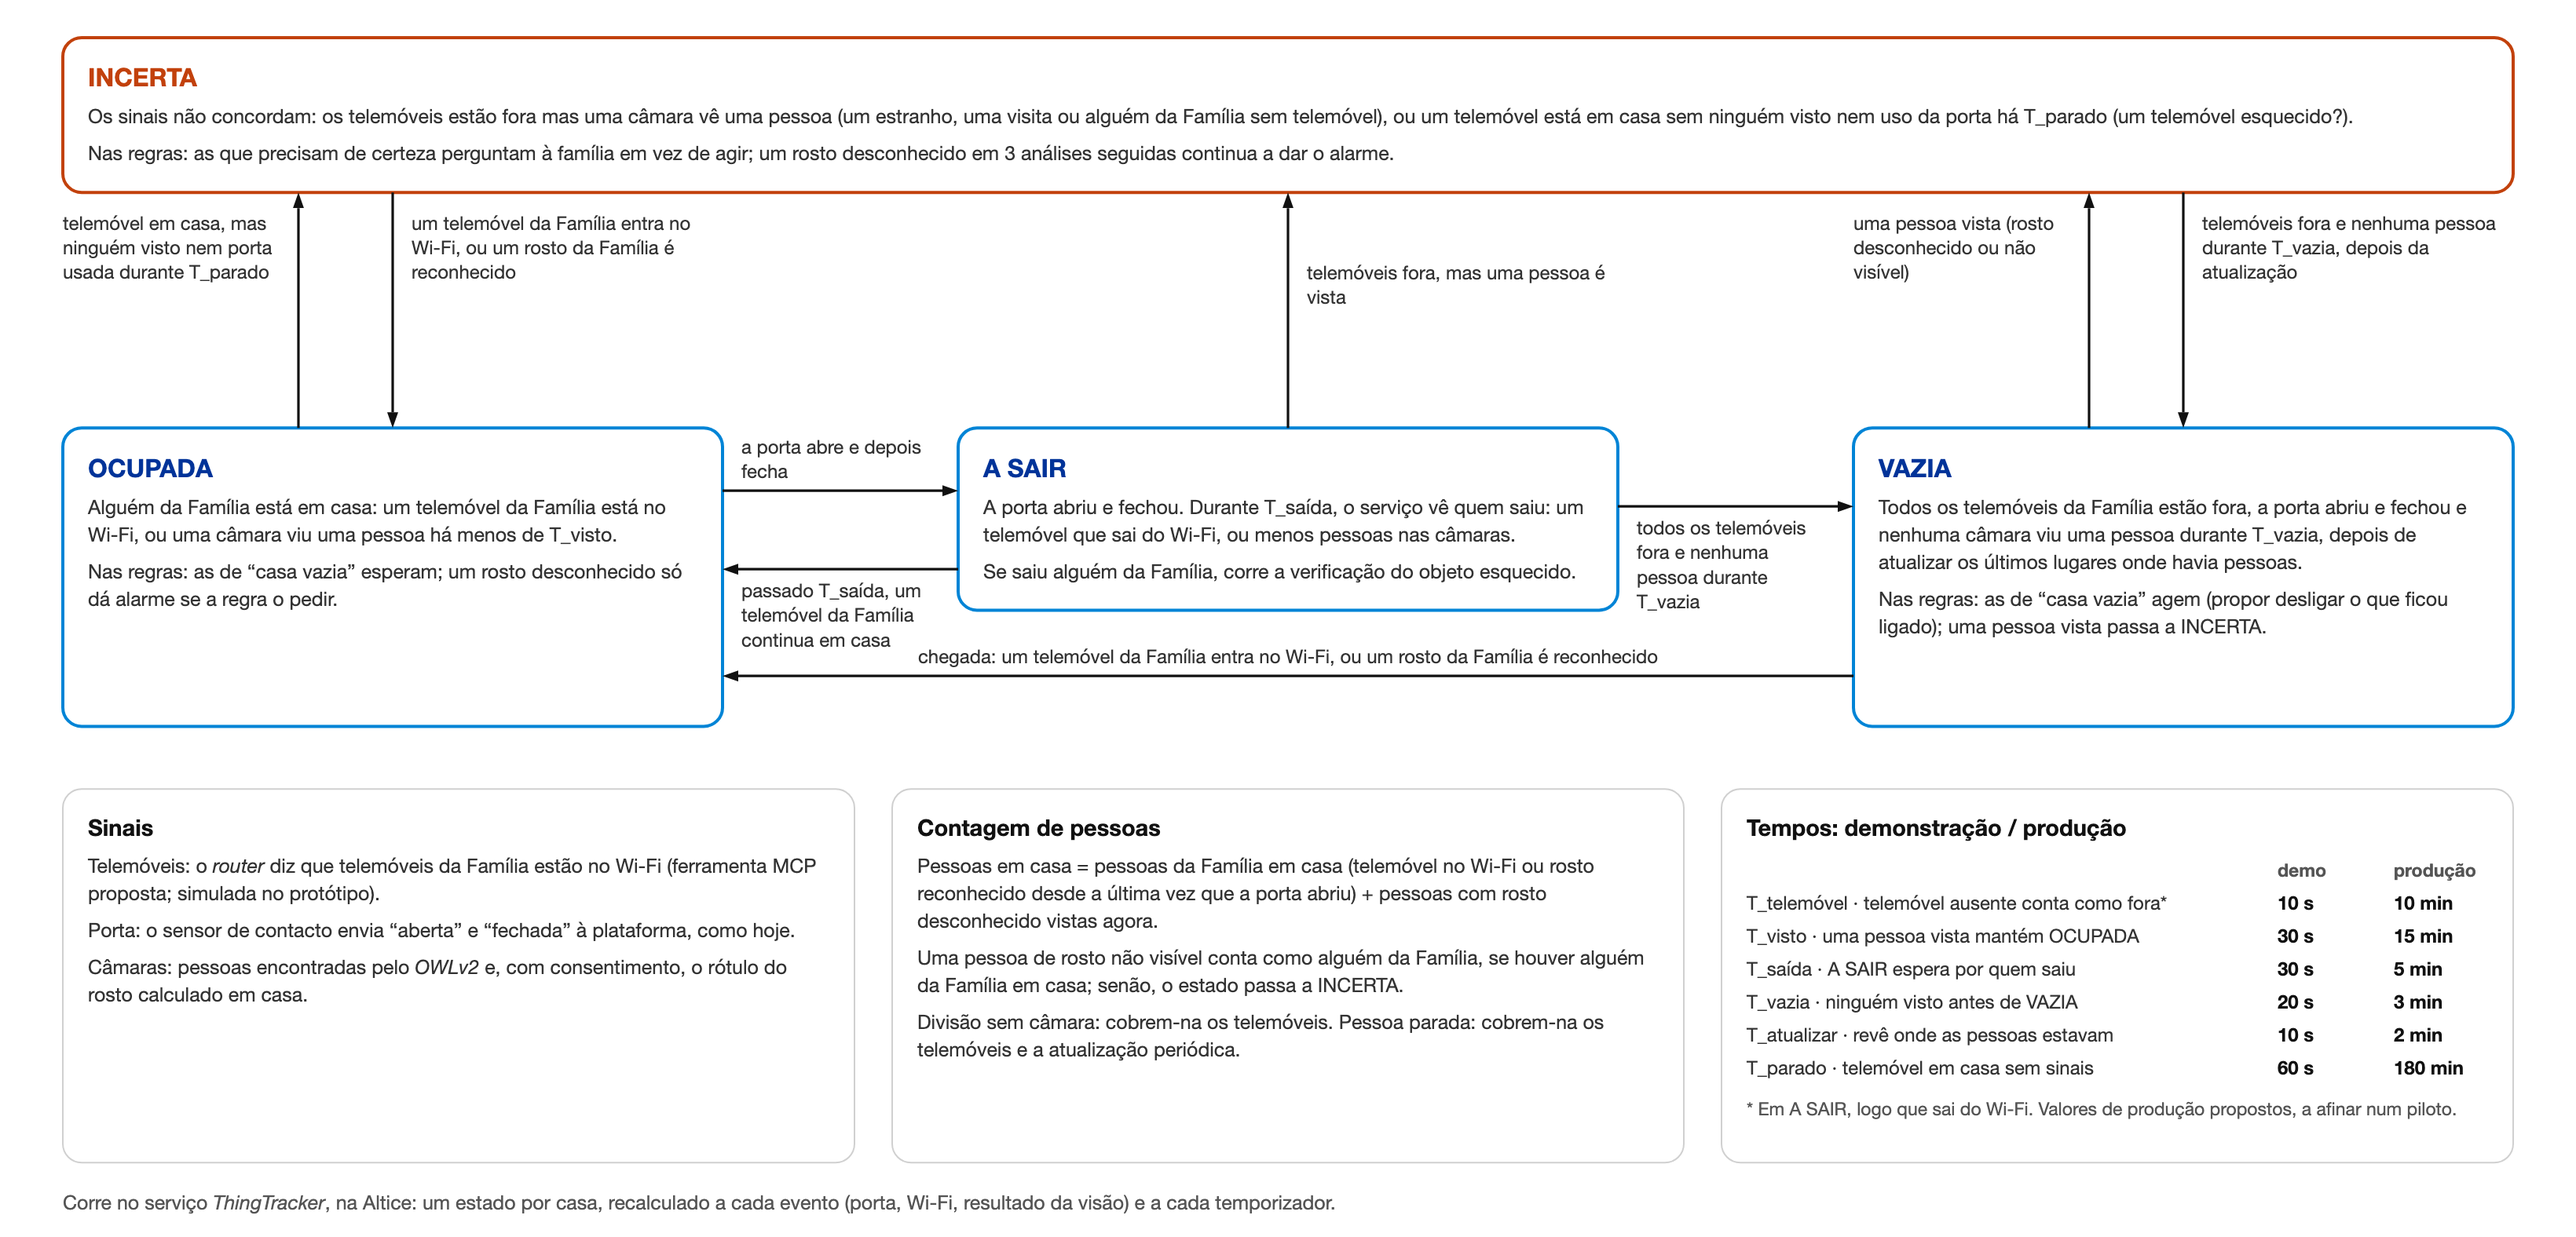
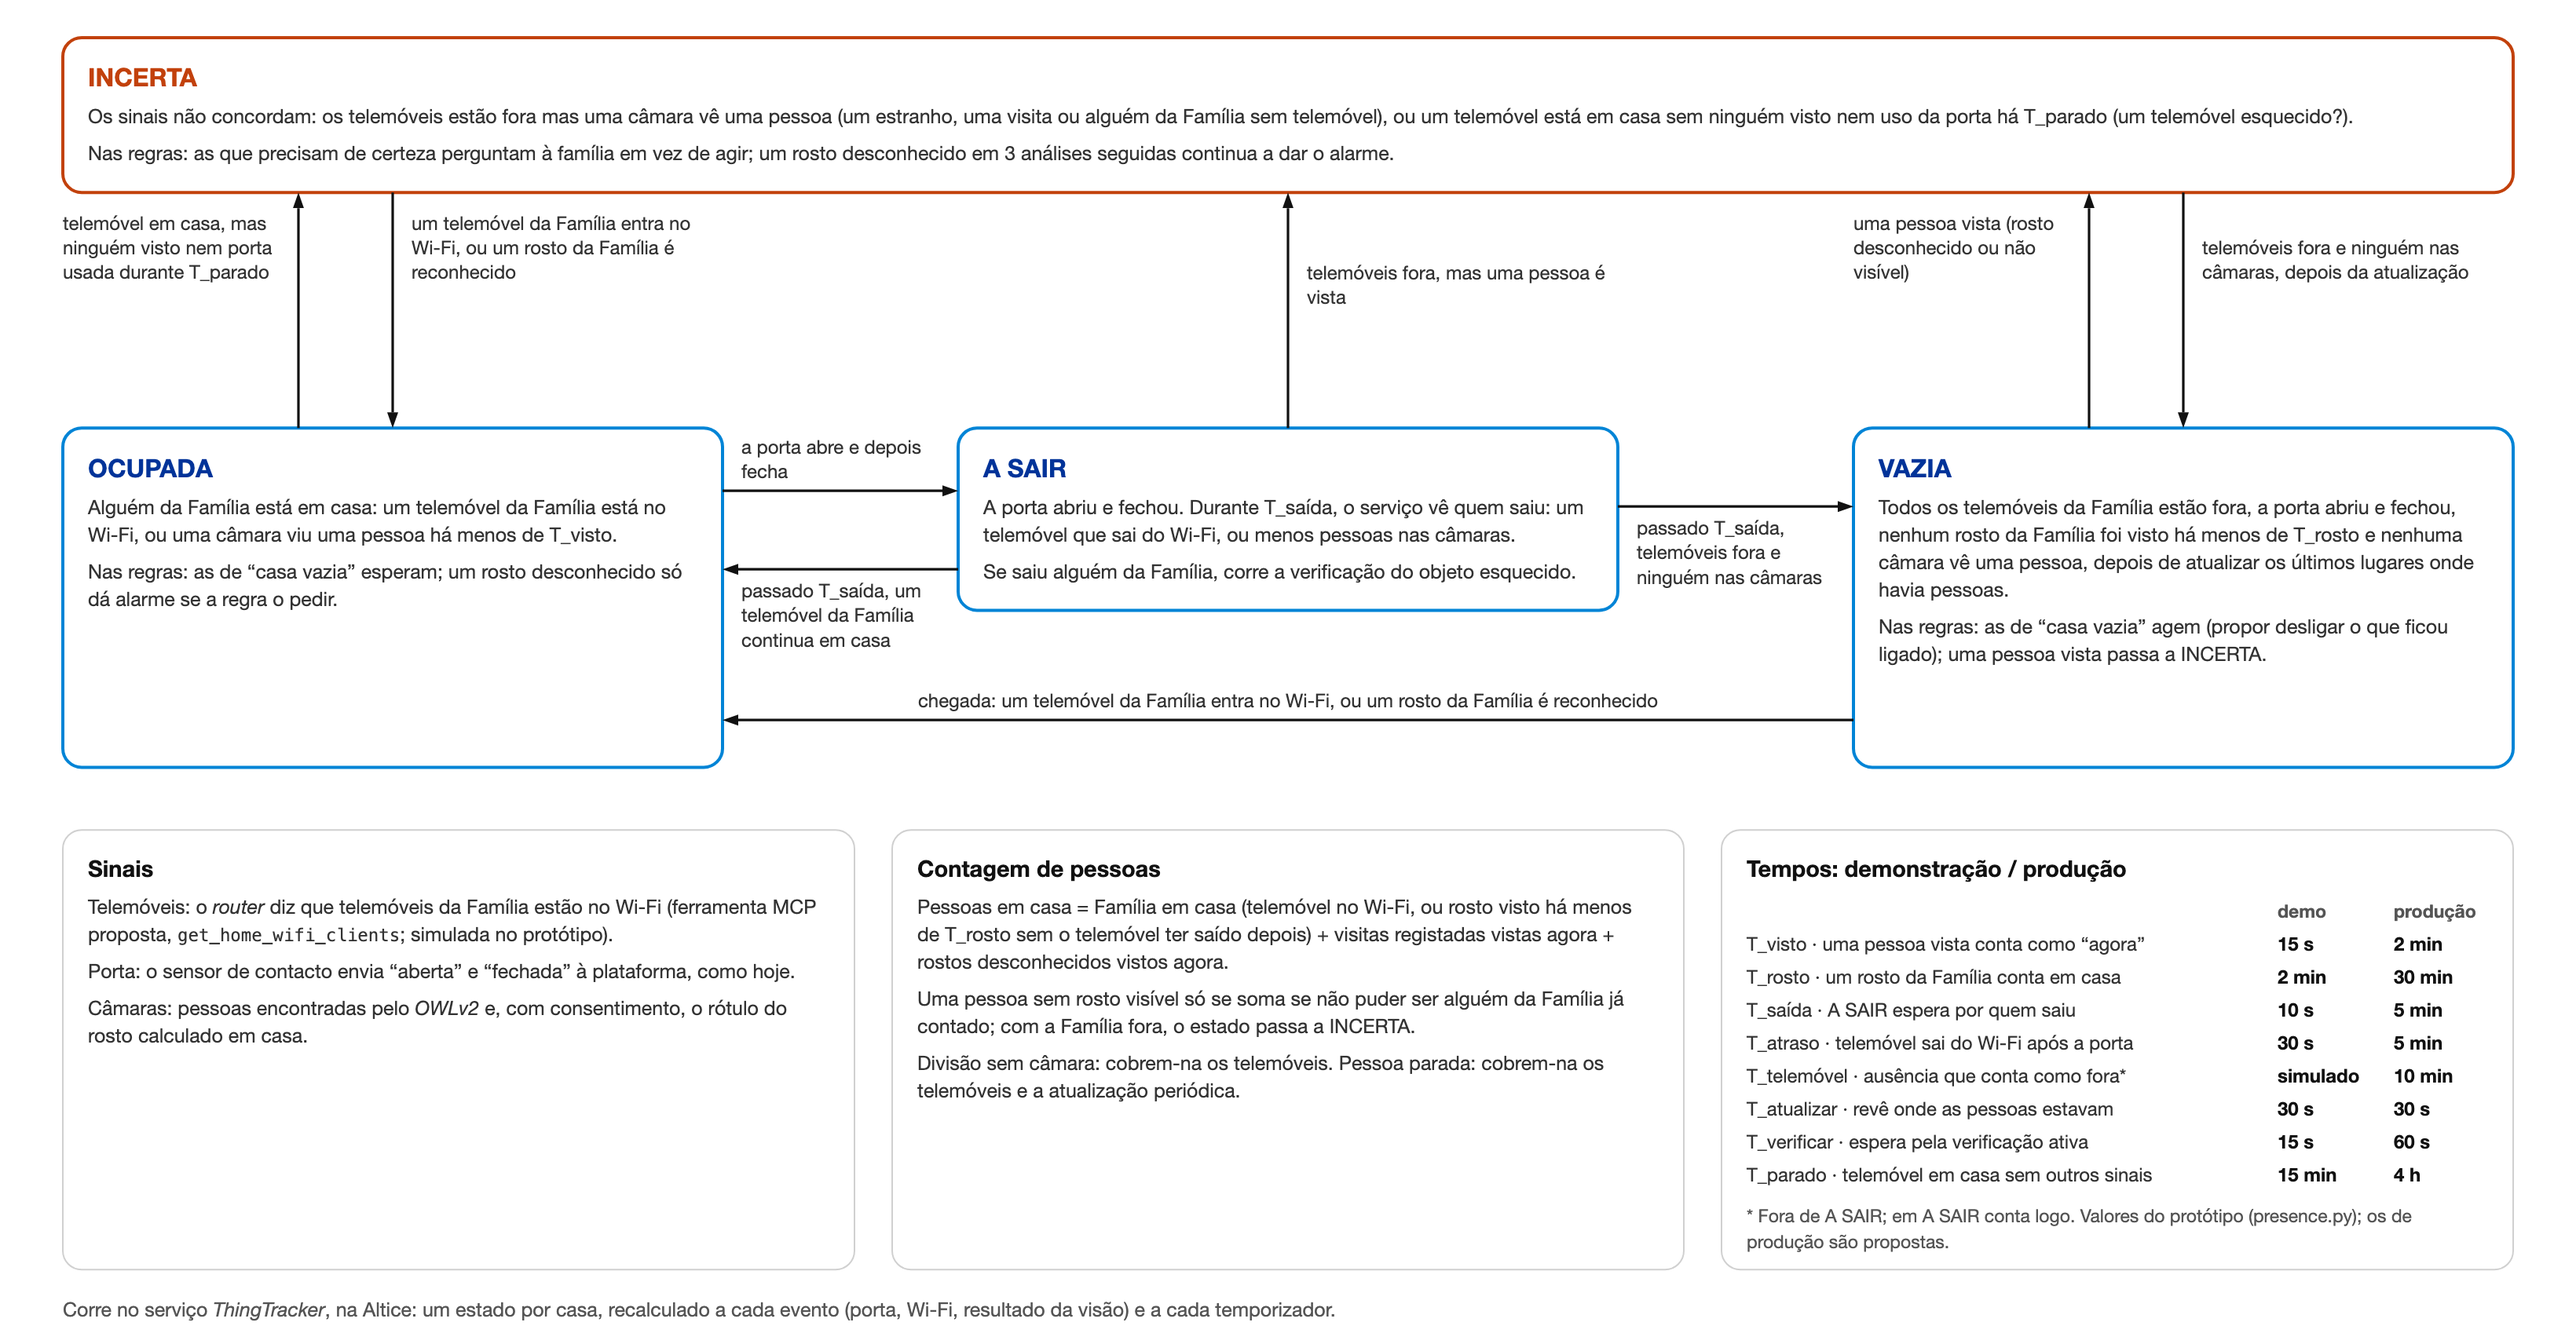
Architecture: presence timings and tool name match the prototype
The presence diagram and the sequences now use presence.py's demo and
production timings (T_seen 15 s / 2 min, T_face 2 min / 30 min, T_leave
10 s / 5 min, T_lag, T_refresh, T_check, T_stale 15 min / 4 h), its
count of people, and the proposed read-only tool get_home_wifi_clients.

Claude-Session: https://claude.ai/code/session_01N2drm5qgeCibkCKQE6vUfg

diff --git a/docs/architecture/build_views.py b/docs/architecture/build_views.py
@@ -287,17 +287,17 @@ def presenca_estados(lang):
                 "people on the cameras."),
               L("Se saiu alguém da Família, corre a verificação do objeto esquecido.",
                 "If a Family member left, the left-behind check runs.")]
-    e_body = [L("Todos os telemóveis da Família estão fora, a porta abriu e fechou e nenhuma câmara viu uma pessoa durante "
-                "T_vazia, depois de atualizar os últimos lugares onde havia pessoas.",
-                "All Family phones are away, the door opened and closed, and no camera saw a person for T_empty, after a "
-                "refresh of the last places where people were."),
+    e_body = [L("Todos os telemóveis da Família estão fora, a porta abriu e fechou, nenhum rosto da Família foi visto há menos de "
+                "T_rosto e nenhuma câmara vê uma pessoa, depois de atualizar os últimos lugares onde havia pessoas.",
+                "All Family phones are away, the door opened and closed, no Family face was seen in the last T_face, and no "
+                "camera sees a person, after a refresh of the last places where people were."),
               L("Nas regras: as de “casa vazia” agem (propor desligar o que ficou ligado); uma pessoa vista passa a INCERTA.",
                 "In the rules: “empty home” rules act (offer to turn off what is on); a person seen moves the state to UNSURE.")]
     w3 = O[1] - O[0]
     ho = cv.box_h(w3, "X", o_body, 16, 16, 12.5)
     he = cv.box_h(w3, "X", e_body, 16, 16, 12.5)
     hl = cv.box_h(w3, "X", l_body, 16, 16, 12.5)
-    tall = max(ho, he, hl + 74)
+    tall = max(ho, he, hl + 100)
     cv.box(O[0], ry, w3, L("OCUPADA", "OCCUPIED"), o_body, h=tall, stroke=BLUE, title_color=DEEP, **st)
     cv.box(LV[0], ry, w3, L("A SAIR", "LEAVING"), l_body, h=hl, stroke=BLUE, title_color=DEEP, **st)
     cv.box(E[0], ry, w3, L("VAZIA", "EMPTY"), e_body, h=tall, stroke=BLUE, title_color=DEEP, **st)
@@ -317,10 +317,10 @@ def presenca_estados(lang):
                                           "after T_leave, a Family phone is still home"), below=True)
     y3 = ry + 50
     cv.arrow(LV[1], y3, E[0], y3, INK)
-    side(LV[1] + 12, E[0] - 12, y3 + 18, L("todos os telemóveis fora e nenhuma pessoa durante T_vazia",
-                                          "all phones away and no person for T_empty"), below=True)
+    side(LV[1] + 12, E[0] - 12, y3 + 18, L("passado T_saída, telemóveis fora e ninguém nas câmaras",
+                                          "after T_leave, phones away and nobody on the cameras"), below=True)
     # EMPTY -> OCCUPIED under LEAVING
-    y4 = lb + 42
+    y4 = lb + 70
     assert y4 < ob - 20
     cv.arrow(E[0], y4, O[1], y4, INK)
     cv.label((O[1] + E[0]) / 2, y4 - 8, L("chegada: um telemóvel da Família entra no Wi-Fi, ou um rosto da Família é reconhecido",
@@ -343,35 +343,40 @@ def presenca_estados(lang):
     side(E[0], xe1 - 10, (ub + ry) / 2 - 20, L("uma pessoa vista (rosto desconhecido ou não visível)",
                                                "a person seen (unknown face or face not visible)"), w=xe1 - E[0] - 14)
     cv.arrow(xe2, ub, xe2, ry, INK)
-    side(xe2 + 12, E[1], (ub + ry) / 2 - 20, L("telemóveis fora e nenhuma pessoa durante T_vazia, depois da atualização",
-                                               "phones away and no person for T_empty, after the refresh"), w=E[1] - xe2 - 14)
+    side(xe2 + 12, E[1], (ub + ry) / 2 - 20, L("telemóveis fora e ninguém nas câmaras, depois da atualização",
+                                               "phones away and nobody on the cameras, after the refresh"), w=E[1] - xe2 - 14)
 
     # ---- below: signals, the count and the timings
     by = ob + 40
     bw = (W - 80 - 2 * 24) / 3
-    sig = [L("Telemóveis: o _router_ diz que telemóveis da Família estão no Wi-Fi (ferramenta MCP proposta; simulada no protótipo).",
-             "Phones: the router says which Family phones are on the Wi-Fi (a proposed MCP tool; simulated in the prototype)."),
+    sig = [L("Telemóveis: o _router_ diz que telemóveis da Família estão no Wi-Fi (ferramenta MCP proposta, `get_home_wifi_clients`; "
+             "simulada no protótipo).",
+             "Phones: the router says which Family phones are on the Wi-Fi (a proposed MCP tool, `get_home_wifi_clients`; simulated "
+             "in the prototype)."),
            L("Porta: o sensor de contacto envia “aberta” e “fechada” à plataforma, como hoje.",
              "Door: the contact sensor sends “open” and “closed” to the platform, as today."),
            L("Câmaras: pessoas encontradas pelo _OWLv2_ e, com consentimento, o rótulo do rosto calculado em casa.",
              "Cameras: people found by OWLv2 and, with consent, the face label worked out in the home.")]
-    cnt = [L("Pessoas em casa = pessoas da Família em casa (telemóvel no Wi-Fi ou rosto reconhecido desde a última vez que a "
-             "porta abriu) + pessoas com rosto desconhecido vistas agora.",
-             "People home = Family members home (phone on the Wi-Fi, or face recognised since the door last opened) + people "
-             "with an unknown face seen now."),
-           L("Uma pessoa de rosto não visível conta como alguém da Família, se houver alguém da Família em casa; senão, o "
+    cnt = [L("Pessoas em casa = Família em casa (telemóvel no Wi-Fi, ou rosto visto há menos de T_rosto sem o telemóvel ter saído "
+             "depois) + visitas registadas vistas agora + rostos desconhecidos vistos agora.",
+             "People home = Family home (phone on the Wi-Fi, or face seen in the last T_face with no phone leaving since) + "
+             "registered guests seen now + unknown faces seen now."),
+           L("Uma pessoa sem rosto visível só se soma se não puder ser alguém da Família já contado; com a Família fora, o "
              "estado passa a INCERTA.",
-             "A person whose face is not visible counts as a Family member if one is home; otherwise the state becomes UNSURE."),
+             "A person with no visible face is added only if they cannot be a Family member already counted; with the Family "
+             "away, the state becomes UNSURE."),
            L("Divisão sem câmara: cobrem-na os telemóveis. Pessoa parada: cobrem-na os telemóveis e a atualização periódica.",
              "A room without a camera: the phones cover it. A still person: the phones and the periodic refresh cover them.")]
     h1 = cv.box_h(bw, "X", sig, 16, 14.5, 12.5)
     h2 = cv.box_h(bw, "X", cnt, 16, 14.5, 12.5)
-    rows = [("T_telemóvel", "T_phone", L("telemóvel ausente conta como fora*", "a missing phone counts as away*"), "10 s", "10 min"),
-            ("T_visto", "T_seen", L("uma pessoa vista mantém OCUPADA", "a person seen keeps OCCUPIED"), "30 s", "15 min"),
-            ("T_saída", "T_leave", L("A SAIR espera por quem saiu", "LEAVING waits for a leaver"), "30 s", "5 min"),
-            ("T_vazia", "T_empty", L("ninguém visto antes de VAZIA", "nobody seen before EMPTY"), "20 s", "3 min"),
-            ("T_atualizar", "T_refresh", L("revê onde as pessoas estavam", "re-checks where people were"), "10 s", "2 min"),
-            ("T_parado", "T_stale", L("telemóvel em casa sem sinais", "phone home with no other sign"), "60 s", "180 min")]
+    rows = [("T_visto", "T_seen", L("uma pessoa vista conta como “agora”", "a person seen counts as “now”"), "15 s", "2 min"),
+            ("T_rosto", "T_face", L("um rosto da Família conta em casa", "a Family face counts as home"), "2 min", "30 min"),
+            ("T_saída", "T_leave", L("A SAIR espera por quem saiu", "LEAVING waits for a leaver"), "10 s", "5 min"),
+            ("T_atraso", "T_lag", L("telemóvel sai do Wi-Fi após a porta", "a phone leaves the Wi-Fi after the door"), "30 s", "5 min"),
+            ("T_telemóvel", "T_phone", L("ausência que conta como fora*", "absence that counts as away*"), L("simulado", "simulated"), "10 min"),
+            ("T_atualizar", "T_refresh", L("revê onde as pessoas estavam", "re-checks where people were"), "30 s", "30 s"),
+            ("T_verificar", "T_check", L("espera pela verificação ativa", "waits for the active check"), "15 s", "60 s"),
+            ("T_parado", "T_stale", L("telemóvel em casa sem outros sinais", "phone home with no other sign"), "15 min", "4 h")]
     h3 = 16 + 22 + 24 + len(rows) * 21 + 50
     hb = max(h1, h2, h3)
     cv.box(40, by, bw, L("Sinais", "Signals"), sig, h=hb, pad=16)
@@ -389,8 +394,8 @@ def presenca_estados(lang):
         cv.text(c1, yy, f"{name} · {what}", 12, False, BODY, max_w=c2 - c1 - 8)
         cv.text(c2, yy, demo if lang == "en" else demo, 12, True, INK)
         cv.text(c3, yy, prod, 12, True, INK)
-    cv.para(c1, yy + 26, L("* Em A SAIR, logo que sai do Wi-Fi. Valores de produção propostos, a afinar num piloto.",
-                           "* In LEAVING, as soon as it leaves the Wi-Fi. Production values are proposals, to tune in a pilot."),
+    cv.para(c1, yy + 26, L("* Fora de A SAIR; em A SAIR conta logo. Valores do protótipo (presence.py); os de produção são propostas.",
+                           "* Outside LEAVING; in LEAVING it counts at once. The prototype’s values (presence.py); production ones are proposals."),
             bw - 32, 11.5, fill=MUTED)
     foot = L("Corre no serviço _ThingTracker_, na Altice: um estado por casa, recalculado a cada evento (porta, Wi-Fi, resultado "
              "da visão) e a cada temporizador.",
@@ -424,10 +429,10 @@ def seq_livro_esquecido(lang):
         ("m", 2, 4, L("`door.opened` (hoje: `get_home_devices` a cada 4 s)", "`door.opened` (today: `get_home_devices` every 4 s)")),
         ("m", 0, 2, L("porta fechada, 8 s depois", "door closed, 8 s later")),
         ("m", 2, 4, L("`door.closed`", "`door.closed`")),
-        ("n", 4, 4, L("A porta abriu e fechou: OCUPADA → A SAIR. Espera até T_saída (30 s na demonstração, 5 min em produção) por quem saiu",
-                      "The door opened and closed: OCCUPIED → LEAVING. Waits up to T_leave (30 s in the demo, 5 min in production) for whoever left")),
+        ("n", 4, 4, L("A porta abriu e fechou: OCUPADA → A SAIR. Espera até T_saída (10 s na demonstração, 5 min em produção) por quem saiu",
+                      "The door opened and closed: OCCUPIED → LEAVING. Waits up to T_leave (10 s in the demo, 5 min in production) for whoever left")),
         ("m", 0, 2, L("o telemóvel do Filipe saiu do Wi-Fi", "Filipe’s phone left the Wi-Fi")),
-        ("m", 2, 4, L("`wifi.left`: Filipe (ferramenta proposta)", "`wifi.left`: Filipe (proposed tool)")),
+        ("m", 2, 4, L("`wifi.left`: Filipe (evento proposto)", "`wifi.left`: Filipe (proposed event)")),
         ("n", 4, 4, L("Saiu alguém da Família: verificação ativa do lugar habitual do livro, sem esperar por movimento",
                       "A Family member left: an active check of the book’s usual place, without waiting for motion")),
         ("m", 4, 1, L("envia a região da secretária: 3 imagens, 1 por segundo", "send the desk’s region: 3 frames, 1 a second")),
@@ -519,8 +524,8 @@ def seq_casa_vazia(lang):
         ("m", 4, 1, L("atualização: as regiões onde as pessoas foram vistas por último", "refresh: the regions where people were last seen")),
         ("m", 1, 3, L("regiões (fila urgente)", "regions (urgent queue)")),
         ("m", 3, 4, L("nenhuma pessoa", "no person")),
-        ("n", 4, 4, L("T_vazia cumprido: A SAIR → VAZIA. Ligados, segundo `get_home_devices`: as luzes (na tomada) e o ar condicionado",
-                      "T_empty met: LEAVING → EMPTY. On, according to `get_home_devices`: the lights (on the plug) and the air conditioner")),
+        ("n", 4, 4, L("Passado T_saída, ninguém nas câmaras: A SAIR → VAZIA. Ligados, segundo `get_home_devices`: as luzes (na tomada) e o ar condicionado",
+                      "After T_leave, nobody on the cameras: LEAVING → EMPTY. On, according to `get_home_devices`: the lights (on the plug) and the air conditioner")),
         ("m", 4, 5, L("aviso: “Não está ninguém em casa e há 2 aparelhos ligados”, com dois cartões “Sim”",
                       "alert: “Nobody is home and 2 appliances are on”, with two “Yes” cards")),
         ("m", 5, 4, L("“Sim”: desligar as luzes", "“Yes”: turn off the lights")),
@@ -530,9 +535,9 @@ def seq_casa_vazia(lang):
         ("g", L("Noutro dia, a porta da entrada fica aberta", "Another day, the front door is left open")),
         ("m", 0, 2, L("porta aberta", "door open")),
         ("m", 2, 4, L("`door.opened`", "`door.opened`")),
-        ("n", 4, 4, L("Porta aberta há T_porta (20 s na demonstração, 2 min em produção), sem movimento nem pessoas em nenhuma câmara "
+        ("n", 4, 4, L("Porta aberta há T_porta (5 s na demonstração, 2 min em produção, proposta), sem ninguém em nenhuma câmara "
                       "desde que abriu",
-                      "Door open for T_door (20 s in the demo, 2 min in production), with no motion and no person on any camera "
+                      "Door open for T_door (5 s in the demo, 2 min in production, a proposal), with nobody on any camera "
                       "since it opened")),
         ("m", 4, 5, L("aviso: “A porta da entrada está aberta e não está ninguém por perto”, com a faixa da porta e “Ver em direto”",
                       "alert: “The front door is open and nobody is around”, with the door banner and “See live”")),
